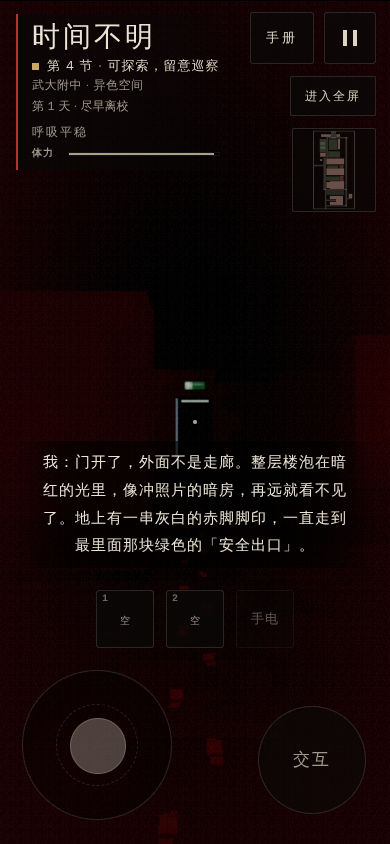
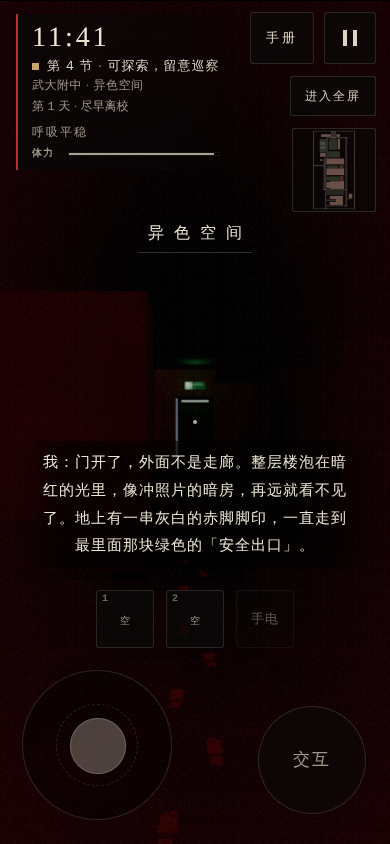
异色空间加人影：站在光前面的黑影、面壁的一个、跟出电梯的一个
用户确认第三版「还可以」，要求加一些人影。只吓人、不伤人，规矩和远处人影（traces.js 的 APPAR）一致：
- fx/dream-figures.js：四个站在一小片光前面的黑影（北墙、南墙亮着的安全灯前，出口旁绿光里一个高的，
  三个在你没看着时转过来朝着你；电梯口附近安全灯底下一个面朝墙）；跟出来的那一个——离电梯口 6 米以上、
  背对着它时身后先响脚步声，1.2 秒后站到半开的电梯门前
- 走近、手电照、盯着看一会儿就消失；无碰撞、不扣 SAN、不致死、不算异象、不进存档，每次进来重摆；
  这个房间不再另出随机的远处人影
- 身后的电梯门改为半开、透出轿厢的冷光（ROOM_LIGHTS.dream 第五盏），人影才衬得出来
- 新增 DreamFiguresTest 3 项；lift_dream 三档穿模 0 条；截图 01、06–09 重拍，新增 10–12
- main.js 里一条放错位置的注释挪回原处
- 文档：恐怖体验计划第 7 节写准入记录，产品对齐文档、传送门计划、计划目录、3D 更新说明、测试说明、截图索引同步

Claude-Session: https://claude.ai/code/session_011CA8sN38sG1RtaArdSjX9J

diff --git a/game3d/js/fx/dream-figures.js b/game3d/js/fx/dream-figures.js
@@ -1,0 +1,89 @@
+/* 里世界 3D · 异色空间里的人影
+   暗房里站着几个黑影——和别处「远处的人影」（traces.js 的 APPAR）同一套模型、同一种黑：
+     · 出口那头亮着的安全灯前一个、南墙亮着的安全灯前一个、出口旁边绿光里一个高出一截的：
+       你没看着它们的时候，它们会转过来朝着你；
+     · 电梯口附近那盏安全灯底下，一个面朝墙站着、头抵过去；
+     · 你离开电梯口走远、背对着电梯口的时候，身后响起几步脚步声——回头看，半开的电梯门透出的冷光里站着一个。
+   都站在一小片光的前面（安全灯照亮的墙、出口的绿光、半开的电梯门里的冷光），黑影才看得出来；摆在全黑的地方等于没有。
+   走近、手电照它、或者盯着看一会儿，它就不在了（和远处人影同一套规矩）。
+   只是吓人：没有碰撞、不挡路、不扣 SAN、不算异象、不进存档；每次进来重新摆一遍。
+   这个房间里不再另出随机的远处人影（traces.js），免得叠在一起。 */
+'use strict';
+
+var DREAM_FIG_CFG={
+  near:{person:4.2, tall:6.0},     /* 走到多近（米）就不见 */
+  stare:1.3,                       /* 盯着看多久（秒）就不见 */
+  followAway:6.0,                  /* 离电梯口多远（米）以后，身后那一个才会来 */
+  followDelay:1.2                  /* 脚步声响过之后多久它站好（秒） */
+};
+/* c、r 是格子坐标（格子 n 的中心是 n+0.5）；都站在空地上，离墙、柱子至少半米。
+   rot 只用 0（朝南，+z）或 π（朝北，−z）；lean 是往前倾 */
+var DREAM_FIGS=[
+  {id:'north',  c:13.6,  r:2.4,   kind:'person', turn:true},                                  /* 出口那头，北墙亮着的安全灯前（从半路看过去正好挡在亮墙前） */
+  {id:'south',  c:8.6,   r:9.6,   kind:'person', turn:true},                                  /* 南墙亮着的安全灯前（从电梯口看过去正好挡在亮墙前） */
+  {id:'tall',   c:16.35, r:7.6,   kind:'tall',   turn:true},                                  /* 出口旁边，绿光照着的墙前，高出一截 */
+  {id:'wall',   c:4.45,  r:1.55,  kind:'person', turn:false, rot:Math.PI, lean:0.10, near:2.6, stare:2.6}   /* 电梯口附近的安全灯底下，面朝北墙，头抵过去 */
+];
+var DREAM_FOLLOW={id:'follow', c:1.6, r:5.5, kind:'person', turn:true, near:4.0, stare:1.0};    /* 电梯门前：你出来的地方 */
+var DFIG={g:null, mat:null, room:null, items:[], follow:null};
+
+function dreamFigWorld(R,d){ return {x:R.ox+d.c*R.tw, y:R.oy+d.r*R.th}; }
+function dreamFigMake(R,d,visible){
+  var grp=new THREE.Group(), w=dreamFigWorld(R,d), p=anfxW2S(w.x,w.y), cp=GLR.cam.position;
+  anfxFigure(grp,DFIG.mat,0,0,1.0,false,d.kind);
+  grp.position.set(p.x,0,p.z);
+  grp.rotation.y=d.rot!==undefined?d.rot:Math.atan2(cp.x-p.x,cp.z-p.z);
+  if(d.lean) grp.rotation.x=d.lean*Math.cos(grp.rotation.y);          /* 朝 +z 时正角往前倾，朝 −z 时反过来 */
+  grp.visible=!!visible; grp.userData.dreamFig=d.id;
+  DFIG.g.add(grp);
+  return {d:d, g:grp, stare:0, gone:false, shown:!!visible, t:0, steps:false};
+}
+/* 每次进来重新摆一遍 */
+function dreamFigReset(R){
+  while(DFIG.g.children.length) DFIG.g.remove(DFIG.g.children[0]);     /* 几何体和材质是共用的，不释放 */
+  DFIG.items=DREAM_FIGS.map(function(d){ return dreamFigMake(R,d,true); });
+  DFIG.follow=dreamFigMake(R,DREAM_FOLLOW,false);
+  DFIG.room=R;
+}
+function dreamFigHalfFov(){
+  var c=GLR.cam; return Math.atan(Math.tan((c.fov||70)*Math.PI/360)*(c.aspect||1.6));
+}
+/* 看着它、离它多近：不见了返回 true */
+function dreamFigWatch(it,dt){
+  var hp=it.g.position, cp=GLR.cam.position, dx=hp.x-cp.x, dz=hp.z-cp.z, dist=Math.hypot(dx,dz);
+  var look=angDiff(Math.atan2(dz,dx),S.ang);
+  if(it.d.turn&&look>dreamFigHalfFov()+0.2) it.g.rotation.y=Math.atan2(cp.x-hp.x,cp.z-hp.z);   /* 没看着它的时候，它转过来朝着你 */
+  if(look<0.12) it.stare+=dt; else it.stare=Math.max(0,it.stare-dt*0.5);
+  var lit=typeof USE!=='undefined'&&USE.torch&&look<0.16&&dist<14;
+  var near=it.d.near||DREAM_FIG_CFG.near[it.d.kind]||4.2, st=it.d.stare||DREAM_FIG_CFG.stare;
+  if(dist<near||lit||it.stare>st){
+    it.g.visible=false; it.gone=true;
+    if(look<0.6){ try{ SFX.vanish(); }catch(e){} }
+    return true;
+  }
+  return false;
+}
+function dreamFigTick(dt){
+  var inDream=S.mode==='in'&&S.room==='lift_dream'&&S.screen==='play'&&!S.dead;
+  if(!inDream){ if(DFIG.g) DFIG.g.visible=false; DFIG.room=null; return; }
+  var R=INTERIORS.lift_dream;
+  if(!DFIG.g){ DFIG.g=new THREE.Group(); DFIG.mat=new THREE.MeshBasicMaterial({color:0x030202,fog:true}); }
+  if(DFIG.g.parent!==GLR.scene) GLR.scene.add(DFIG.g);
+  if(DFIG.room!==R) dreamFigReset(R);
+  DFIG.g.visible=true;
+  if(PAUSE.on||UI.anyOpen()) return;                 /* 暂停、打开界面时：人还在，只是不动 */
+  DFIG.items.forEach(function(it){ if(!it.gone) dreamFigWatch(it,dt); });
+  /* 跟出来的那一个：你走远了、背对着电梯口，身后先响几步脚步声，过一会儿它才站好；你提前回头，这次就先不出来 */
+  var f=DFIG.follow; if(!f||f.gone) return;
+  if(f.shown){ dreamFigWatch(f,dt); return; }
+  var w=dreamFigWorld(R,f.d), p=f.g.position, cp=GLR.cam.position;
+  var dist=Math.hypot(p.x-cp.x,p.z-cp.z), look=angDiff(Math.atan2(p.z-cp.z,p.x-cp.x),S.ang);
+  if(dist>DREAM_FIG_CFG.followAway&&look>dreamFigHalfFov()+0.35){
+    if(!f.steps){ f.steps=true; try{ SFX.dread('steps',dreadPlace(w.x,w.y)); }catch(e){} }
+    f.t+=dt;
+    if(f.t>=DREAM_FIG_CFG.followDelay){
+      f.shown=true; f.g.visible=true; f.stare=0;
+      f.g.rotation.y=Math.atan2(cp.x-p.x,cp.z-p.z);
+    }
+  }else f.t=0;
+}

diff --git a/game3d/js/model/room.js b/game3d/js/model/room.js
@@ -902,6 +902,17 @@ function dreamDecor(c){
     K.rod('metal',x0-dx,2.78,z0-dz,x0-dx,3.0,z0-dz,0.006,0.006,4,0x0c0909,0.9);
     K.rod('metal',x0+dx,2.86,z0+dz,x0+dx,3.0,z0+dz,0.006,0.006,4,0x0c0909,0.9);
   });
+  /* 身后：你出来的那扇电梯门还半开着，里面是轿厢冷白的光（ROOM_LIGHTS.dream 最后一盏照着门前的地）。
+     跟出来的人影就站在这道光前面——全场只有这里亮得能把它整个衬出来。门只是布景：这一面墙照旧是实心的 */
+  var lx=-hw+c.tw, lz=CZ(5), gap=0.62, leaf=(1.04-gap)/2;
+  K.g('emit').box(lx+0.004,1.05,lz,0.004,2.10,gap+0.02,0xc9d6df,1);               /* 门里轿厢的光 */
+  K.g('emit').box(lx+0.006,1.05,lz,0.004,1.80,gap*0.55,0xe4edf2,1);               /* 中间更亮一点 */
+  K.box('metal',lx+0.014,1.06,lz-gap/2-leaf/2,0.024,2.12,leaf,0x1e2124,0.9);     /* 两扇门板 */
+  K.box('metal',lx+0.014,1.06,lz+gap/2+leaf/2,0.024,2.12,leaf,0x1e2124,0.9);
+  K.box('metal',lx+0.02,2.18,lz,0.04,0.12,1.3,0x141618,0.9);                      /* 门头、门套 */
+  K.box('metal',lx+0.02,1.06,lz-0.59,0.04,2.12,0.12,0x141618,0.9);
+  K.box('metal',lx+0.02,1.06,lz+0.59,0.04,2.12,0.12,0x141618,0.9);
+  K.g('emit').box(lx+0.16,0.0135,lz,0.28,0.003,gap,0x8e9ca6,1);                 /* 门口地上那一小块光 */
   /* 倒挂的台阶：发黑的踏步从天花板上一级级长下来 */
   for(i=0;i<5;i++){
     var sy=2.94-i*0.1;

diff --git a/game3d/js/model/specs.js b/game3d/js/model/specs.js
@@ -21,7 +21,8 @@ var ROOM_LIGHTS={
   teach:[[8.5,2.75,7.5,0xffe9c8,1.55,16,'tile'],[24.5,2.75,7.5,0xffe9c8,1.55,16,'tile'],[48.5,2.75,7.5,0xffe9c8,1.55,16,'tile']],
   lab3:[[-16,2.70,-2,0xc8dce8,1.3,18],[-3,2.70,-2,0xc8dce8,1.1,18],[17,2.60,-2.5,0x8a2418,1.6,16],[0,2.6,0.4,0xc07a4a,0.8,14,'room']],
   bell:[[0,2.4,2.5,0xffa860,0.9,12]],trash:[[0,2.6,0,0xb8d0a8,0.7,10]],
-  /* 异色空间：三盏暗房安全灯（暗红，挂在南北墙上），尽头一盏绿灯照着「安全出口」和门——全场唯一不是红的光 */
+  /* 异色空间：三盏暗房安全灯（暗红，挂在南北墙上），尽头一盏绿灯照着「安全出口」和门，身后电梯门缝里一点冷光 */
   dream:[[4.5,2.25,1.9,0xc41a0c,0.6,9,'tile'],[9.5,2.25,10.1,0xc41a0c,0.6,9,'tile'],[14.5,2.25,1.9,0xc41a0c,0.6,9,'tile'],
-         [15.4,2.7,5.5,0x3fe38a,0.2,6,'tile']]
+         [15.4,2.7,5.5,0x3fe38a,0.2,6,'tile'],
+         [1.35,2.0,5.5,0xb9c6d2,0.12,4.5,'tile']]   /* 身后：电梯门缝里漏出轿厢一点冷白的光 */
 };

diff --git a/game3d/js/main.js b/game3d/js/main.js
@@ -81,8 +81,8 @@ function render(dt){
   try{ if(AMB_ON&&S.screen==='play'){ if(!SFX._ambOn){ SFX.ambient(); SFX._ambOn=true; } } else if(!AMB_ON&&SFX._ambOn){ SFX.stopAmbient(); SFX._ambOn=false; } }catch(e){}
   try{ SFX.tick(dt); }catch(e){}
   if(CarChase.active()&&S.screen==='play')CarChase.draw();
-  try{ PortalDevice.tick(dt); }catch(e){}
-  try{ LiftDoors.tick(dt); }catch(e){}             /* 电梯层门：电梯到这一层时滑开 */          /* 物理实验室演示台上的传送门：按剧情状态摆、每帧动 */
+  try{ PortalDevice.tick(dt); }catch(e){}          /* 物理实验室演示台上的传送门：按剧情状态摆、每帧动 */
+  try{ LiftDoors.tick(dt); }catch(e){}             /* 电梯层门：电梯到这一层时滑开 */
   Engine.draw(dt); updateHUD(); drawMini(dt);
   try{ Speedrun.paintHud(); }catch(e){}
 }

diff --git a/game3d/js/fx/traces.js b/game3d/js/fx/traces.js
@@ -127,7 +127,8 @@ function hallucTick(dt){
    只是吓人，不扣 SAN、不算异象；有异象、被巡察者盯着、打开界面时不出现。 */
 var APPAR={g:null,next:40,life:0,stare:0};
 function apparTick(dt){
-  var on=(S.screen==='play'&&!S.dead&&!PAUSE.on&&!AN.active&&!UI.anyOpen()&&!PAT.locked&&!HIDE.on&&!(typeof PHONE!=='undefined'&&PHONE.on));
+  var on=(S.screen==='play'&&!S.dead&&!PAUSE.on&&!AN.active&&!UI.anyOpen()&&!PAT.locked&&!HIDE.on&&!(typeof PHONE!=='undefined'&&PHONE.on)
+    &&!(S.mode==='in'&&S.room==='lift_dream'));                  /* 异色空间里有自己的一组人影（fx/dream-figures.js） */
   if(!APPAR.g){
     APPAR.g=new THREE.Group();
     anfxFigure(APPAR.g,new THREE.MeshBasicMaterial({color:0x030405,fog:true}),0,0,1.0,false,'person');

diff --git a/game3d/js/engine/scene.js b/game3d/js/engine/scene.js
@@ -233,6 +233,7 @@ ThreeBackend.draw=function(dt){
   try{ handsTick(dt); }catch(e){}
   try{ if(!debugFrozen)hallucTick(dt); }catch(e){}
   try{ if(!debugFrozen)apparTick(dt); }catch(e){}
+  try{ if(!debugFrozen)dreamFigTick(dt); }catch(e){}        /* 异色空间里的人影：fx/dream-figures.js */
   GLR.cam.updateMatrixWorld();
   entFace();
   var u=GLR.postMat.uniforms;

diff --git a/index.html b/index.html
@@ -350,6 +350,7 @@
 <script src="game3d/js/fx/cola.js"></script>
 <script src="game3d/js/fx/smile.js"></script>
 <script src="game3d/js/fx/traces.js"></script>
+<script src="game3d/js/fx/dream-figures.js"></script>
 <script src="game3d/js/fx/classroom.js"></script>
 <script src="game3d/js/fx/dread-fx.js"></script>
 <script src="game3d/js/lighting.js"></script>

diff --git a/tests/test_chain_events.py b/tests/test_chain_events.py
@@ -157,3 +157,81 @@ class DreamPaletteTest(BrowserCase):
         page.evaluate("render(0.016)")
         self.assert_js(page, "GLR.postMat.uniforms.uFx.value<0.85&&GLR.postMat.uniforms.uDream.value===0&&GLR.postMat.uniforms.uBreath.value===0")
         self.assert_js(page, "!(GLR.amb.color.r>GLR.amb.color.g*4)")
+
+
+class DreamFiguresTest(BrowserCase):
+    """异色空间里的人影（fx/dream-figures.js）：站在光前面的黑影，没看着时转过来；走近、盯着看就不见；
+    走远、背对电梯口时身后先响脚步声，回头看电梯门里站着一个。只是吓人：没有碰撞、不扣 SAN、每次进来重摆。"""
+
+    def enter(self, page):
+        page.evaluate("Game.start('hard');clearIntroTimers();running=false;S.intro=0;AN.active=false;AN.next=1e6;PAT.next=1e6;")
+        page.wait_for_function("S.room==='teach1'&&GLR.roomMesh")
+        page.evaluate("""doEnterRoom('lift_dream',Elevator.spawn('lift_dream',2,5,0));running=false;
+          window.vanished=0;window.steps=0;SFX.vanish=function(){vanished++;};SFX.dread=function(k){if(k==='steps')steps++;};""")
+        page.wait_for_function("S.room==='lift_dream'&&GLR.roomMesh&&GLR.roomMesh.userData.roomData===INTERIORS.lift_dream")
+        page.evaluate("syncCamera(0);render(0.016)")
+
+    @staticmethod
+    def put(page, c, r, ang):
+        page.evaluate(f"(()=>{{const R=INTERIORS.lift_dream;S.x=R.ox+{c}*R.tw;S.y=R.oy+{r}*R.th;S.ang={ang};S.pitch=0;syncCamera(0);}})()")
+
+    def test_figures_turn_when_unseen_vanish_up_close_or_under_a_stare_and_never_hurt(self):
+        page = self.page()
+        self.enter(page)
+        self.assert_js(page, "DFIG.items.length===4&&DFIG.items.every(i=>i.g.visible&&!i.gone)&&!DFIG.follow.g.visible")
+        self.assert_js(page, "DFIG.items.concat([DFIG.follow]).every(i=>{const w=dreamFigWorld(INTERIORS.lift_dream,i.d);return !solidAt(w.x,w.y);})")
+        self.assert_js(page, "DFIG.mat.isMeshBasicMaterial&&DFIG.mat.color.getHex()<0x101010")
+        san = page.evaluate("S.san")
+        # 背过身去：东边那几个转过来朝着你
+        page.evaluate("S.ang=Math.PI;syncCamera(0);render(0.016)")
+        self.assert_js(page, """(()=>{const it=DFIG.items.find(i=>i.d.id==='north'),p=it.g.position,c=GLR.cam.position;
+            return angDiff(it.g.rotation.y,Math.atan2(c.x-p.x,c.z-p.z))<1e-6;})()""")
+        # 面壁的那个不转
+        self.assert_js(page, "Math.abs(DFIG.items.find(i=>i.d.id==='wall').g.rotation.y-Math.PI)<1e-9")
+        # 盯着看一会儿就不见（高的那个，8 米外）
+        page.evaluate("""(()=>{const R=INTERIORS.lift_dream,t=DFIG.items.find(i=>i.d.id==='tall'),w=dreamFigWorld(R,t.d);
+            S.x=R.ox+8.5*R.tw;S.y=R.oy+5.5*R.th;S.ang=Math.atan2(w.y-S.y,w.x-S.x);syncCamera(0);})()""")
+        page.evaluate("render(0.016)")
+        self.assert_js(page, "!DFIG.items.find(i=>i.d.id==='tall').gone")
+        for _ in range(4):
+            page.evaluate("render(0.4)")
+        self.assert_js(page, "DFIG.items.find(i=>i.d.id==='tall').gone&&vanished>=1")
+        # 走近也不见
+        self.assert_js(page, "!DFIG.items.find(i=>i.d.id==='north').gone")
+        self.put(page, 13.0, 3.2, 0)
+        page.evaluate("render(0.016)")
+        self.assert_js(page, "DFIG.items.find(i=>i.d.id==='north').gone")
+        self.assertEqual(page.evaluate("S.san"), san)
+
+    def test_the_one_that_follows_you_out_of_the_elevator(self):
+        page = self.page()
+        self.enter(page)
+        self.put(page, 5.0, 5.5, 0.0)           # 离电梯口不到 6 米：不来
+        for _ in range(4):
+            page.evaluate("render(0.5)")
+        self.assert_js(page, "!DFIG.follow.shown&&steps===0")
+        self.put(page, 9.6, 5.5, 0.0)           # 走远了、背对电梯口：先响脚步声，过一会儿它才站好
+        page.evaluate("render(0.5)")
+        self.assert_js(page, "steps===1&&!DFIG.follow.shown")
+        for _ in range(3):
+            page.evaluate("render(0.5)")
+        self.assert_js(page, "DFIG.follow.shown&&DFIG.follow.g.visible&&steps===1")
+        self.put(page, 9.6, 5.5, 3.14159)       # 回头：它站在半开的电梯门前；盯着看一秒就不见了
+        page.evaluate("render(0.016)")
+        self.assert_js(page, "DFIG.follow.g.visible&&!DFIG.follow.gone")
+        for _ in range(3):
+            page.evaluate("render(0.5)")
+        self.assert_js(page, "DFIG.follow.gone&&!DFIG.follow.g.visible")
+
+    def test_figures_reset_each_visit_hide_outside_and_replace_the_random_apparition(self):
+        page = self.page()
+        self.enter(page)
+        self.put(page, 13.0, 3.2, 0)
+        page.evaluate("render(0.016)")
+        self.assert_js(page, "DFIG.items.find(i=>i.d.id==='north').gone")
+        page.evaluate("APPAR.next=0;apparTick(0.016)")               # 这里不另出随机的远处人影
+        self.assert_js(page, "!APPAR.g||!APPAR.g.visible")
+        page.evaluate("doEnterRoom('lab1',Elevator.landing('lab',1));running=false;syncCamera(0);render(0.016)")
+        self.assert_js(page, "!DFIG.g.visible&&DFIG.room===null")
+        page.evaluate("doEnterRoom('lift_dream',Elevator.spawn('lift_dream',2,5,0));running=false;syncCamera(0);render(0.016)")
+        self.assert_js(page, "DFIG.g.visible&&DFIG.items.every(i=>!i.gone&&i.g.visible)&&!DFIG.follow.shown")

diff --git a/docs/plan/README.md b/docs/plan/README.md
@@ -4,10 +4,10 @@
 
 | 计划 | 状态 | 说明 |
 | --- | --- | --- |
-| [传送门建模、死亡CG档案室与速通模式](传送门建模、死亡CG档案室与速通模式.md) | 部分完成 | 第 6.7 节 20 分钟自然日此前已部署。2026-11-01 实现 P0 传送门实体模型（实验室常驻装置与结局演出共用）、P1 死亡档案室（18 种死因、可信解锁、隔离回放）、P2 速通模式（RTA、独立存档槽、个人最佳）、P3 新局 3D 开场 CG、P4 水杯前摇缩短 / 夜间连锁异象 / 校庆与占课 / 异色空间，均有自动化与截图（第 9 节）；异色空间已按用户反馈改了三版，第三版按恐怖感做成暗房红灯加门缝漏光的出口，观感待用户确认；真人试玩、安卓真机、听感与真实 GPU 性能验收未做。 |
+| [传送门建模、死亡CG档案室与速通模式](传送门建模、死亡CG档案室与速通模式.md) | 部分完成 | 第 6.7 节 20 分钟自然日此前已部署。2026-11-01 实现 P0 传送门实体模型（实验室常驻装置与结局演出共用）、P1 死亡档案室（18 种死因、可信解锁、隔离回放）、P2 速通模式（RTA、独立存档槽、个人最佳）、P3 新局 3D 开场 CG、P4 水杯前摇缩短 / 夜间连锁异象 / 校庆与占课 / 异色空间，均有自动化与截图（第 9 节）；异色空间已按用户反馈改了三版，第三版按恐怖感做成暗房红灯加门缝漏光的出口（用户确认可以），并加了只吓人不伤人的人影；真人试玩、安卓真机、听感与真实 GPU 性能验收未做。 |
 | [天赋系统重构](天赋系统重构.md) | 部分完成 | 2026-11-01 完成 M0–M3：`talents.js` 统一定义与能力接口、新局选择 / 随机 / 返回、免疫立即落盘、未知 ID 校验、手册与暂停反馈、规则 2 试验效果（旧存档保持规则 1），`tests/test_talents.py` 9 项；M4 路线自然通关与 M5 真人 / 真机验收未做（第 12 节）。 |
 | [可玩性与整体体验提升](可玩性与整体体验提升.md) | 代码已实现，待真人／真机验收 | [PR #20](https://github.com/chorusfruit-233/wdfz/pull/20) 集中交付 G1–G9 的实现、回归与记录工具：首局调查、具体笔记与路线选择、图纸挑战、补给取舍、失败归因、楼层草图、操作设置及叙事回应。第二轮（17.6 节）做了审查修复、全部新界面与场景文字牌按游戏界面风格重做、Alt 放出鼠标。真人盲玩、正常收集通关、自然跨日、实体设备、听感和重玩价值保持待验收，证据见正文第 17 节。 |
-| [恐怖体验深化与验证](恐怖体验深化与验证.md) | 部分完成 | P0–P2 与第 6 节自动化已完成：威胁矩阵与事件优先级表、巡察者卡住放弃 / 跟丢回头找 / 记得躲过的柜子、声音先行与有方位的假威胁、惊吓预算、骤静与前兆、回访变化、五分钟切片，导演系统评估后暂不做；安卓真机与真人试玩记录未做。 |
+| [恐怖体验深化与验证](恐怖体验深化与验证.md) | 部分完成 | P0–P2 与第 6 节自动化已完成：威胁矩阵与事件优先级表、巡察者卡住放弃 / 跟丢回头找 / 记得躲过的柜子、声音先行与有方位的假威胁、惊吓预算、骤静与前兆、回访变化、五分钟切片，导演系统评估后暂不做；安卓真机与真人试玩记录未做。2026-11-02 异色空间加人影（假威胁，准入记录在第 7 节）。 |
 | [校园事件、电梯与逃脱流程重做](校园事件、电梯与逃脱流程重做.md) | 部分完成 | M0–M6 完成：第 15 节列出「待设计」参数的实施取值（未经用户逐项确认，集中在配置里可调）和对应测试；M7 的真实设备与真人试玩（数值平衡、驾驶手感、白色空间可玩性）未做。 |
 | [全死亡方式与结局CG重制、隐藏触发时刻校准](全死亡方式与结局CG重制、隐藏触发时刻校准.md) | 部分完成 | M0–M5 完成：28 种可触发死法全部按死因重做并可安全跳过，四条结局分镜重做、垃圾桶改为死亡演出，隐藏时刻精确到秒且不外泄，绘制次数与着色器预热优化；已完成独立代码审查及修复，M6 仍差安卓真机与实机试听。 |
 | [SAN、校园压力与时间体验重做](SAN、校园压力与时间体验重做.md) | 部分完成 | Q1–Q7 与 20 分钟自然日已实现；追加「尽量当天逃离、第二天起高危」的连续升压、恢复衰减、状态提示和存档兼容。已有整日规则推演、策略模拟及新增专项回归；新曲线的真人首次通关率、自然长局、真实设备与音乐听感仍待验证。 |

diff --git a/docs/产品对齐文档.md b/docs/产品对齐文档.md
@@ -410,6 +410,7 @@ flowchart TD
 - **电梯厅**：J 格在楼层南侧外墙线上（教学楼第 21 行、实验楼第 19 行）。门头、不锈钢门套与地坎、门楣上的楼层显示和到站灯、墙上的呼梯按钮都贴在墙面上。两扇层门单独建网格：电梯停在本层等人（`ready`），或刚把人送到本层（出轿厢后 2.6 秒，`openT`）时滑开，其余时间关着；从门缝能看到井道里的轿厢。
 - **轿厢**：按 1.6 × 1.5 米的真实尺寸放在 5 × 4 的格子里，碰撞跟着轿厢壁走；轿门、侧壁操纵盘（朝向轿厢里面的圆形按钮、深色拉丝底板）、扶手和后壁。整间约 1000 个三角面、9 次绘制，每层电梯厅只多几百个面。只在高画质建的小零件（螺栓、按钮帽）不进碰撞，五档画质的碰撞完全一致（`test_geometry` 全校逐档比对）。进轿厢时站在正中、面朝轿门；旧存档里站在旧轿厢（5 × 5 米）外围的位置，读档时放回正中。
 - **特殊空间（异色空间）配色**（第三版，2026-11-02，用户反馈「没有恐怖感觉」）：做成一间被放大的暗房——整层只亮暗红的安全灯（南北墙六盏，亮着三盏，`ROOM_LIGHTS.dream`），环境光、天光和身边的补光都是暗红的，十几米外沉进红黑色的雾（密度 0.055）；墙 `0x4a1416`、护墙板更深、顶是黑的，地砖发黑并有几摊干掉的深色水渍，墙上有从顶往下淌的暗痕，头顶挂着掉了一头的灯管和倒着长下来的台阶（都在 2.1 米以上）。一串灰白的赤脚脚印从电梯口走到尽头的门前；全场唯一不是红色的是出口：门上过梁钉着自发光的绿色「安全出口」灯牌，门缝和门底下漏出冷白的光，一盏弱绿灯照着门。后期在这里保留红色的饱和度，另加红黑暗角、颗粒和约 5 秒一次的缓慢明暗「呼吸」（关掉镜头晃动时不呼吸），不用频闪。到达时的独白改为暗房和脚印的描述，点明出口在绿牌子那里。前两版（高饱和分区、深靛紫加渐变）的取舍见文末变更记录与 3D 更新说明。
+- **异色空间里的人影**（2026-11-02，`fx/dream-figures.js`）：和远处人影同一种黑色人形，都站在一小片光前面才看得出来——出口那头北墙亮着的安全灯前一个、南墙亮着的安全灯前一个、出口旁边绿光里一个高出一截的，你没看着它们时会转过来朝着你；电梯口附近的安全灯底下一个面朝墙站着。身后那扇电梯门还半开着、透出轿厢的冷光；你离电梯口 6 米以上、背对着它时，身后先响几步脚步声，约 1.2 秒后电梯门前站着一个。走近（普通 4.2 米、高的 6 米、面壁的 2.6 米）、手电照、或盯着看 1.3 秒（跟出来的那个 1 秒）就不见了。没有碰撞、不扣 SAN、不致死、不算异象、不进存档，每次进来重摆；这个房间里不再另出随机的远处人影。
 - 没有采用 PR #24 的 `env.js`（会覆盖引擎管理的 `scene.environment`）、未启用且有问题的 442 KB 网格包与加载器，以及它回退 main 的 README、文档和录像文件。
 
 | 区域 | 关键内容 | 产品意义 |
@@ -1063,6 +1064,7 @@ flowchart TD
 | 2026-11-01 | 天赋重构 M0–M3（定义源、新局选择、规则 2 试验效果）；传送门实体建模、死亡档案室、速通模式、新局开场 CG；水杯前摇缩短、夜间连锁异象（内部）、校庆 / 占课特殊日、电梯异色空间重绘。 | 分支 `claude/draft-pr-finalization-57socr` 的自动化与截图为准；真人、安卓真机和听感待验收。 |
 | 2026-11-01 | 接手 PR #24：电梯厅与轿厢按真实尺寸重建模、层门开合、隔墙遮挡的交互判定；异色空间改为深靛紫底加渐变点缀；触屏下速通计时移到小地图下方、档案回放的触摸结束不再误点「重看」；合入 main 的留校时间升压（6.11 节重新编号）。 | 同一分支；PR #24 选择性吸收（理由见 7.1、7.2），未在其分支上提交。真人与真机待验收。 |
 | 2026-11-02 | 异色空间第三版：按「没有恐怖感觉」的反馈改成暗房红灯、红黑雾、水渍与脚印，出口改为门缝漏光加绿色「安全出口」灯牌；后期加暗角、颗粒和可关的缓慢呼吸（7.1）。 | 同一分支；观感待用户确认，真机未测。 |
+| 2026-11-02 | 异色空间加人影：站在光前面的黑影、面壁的一个、跟出电梯的一个；身后的电梯门改为半开透光（7.1）。 | 同一分支；只吓人不伤人，真人与真机待验收。 |
 
 ## 可玩性扩展的资源和验证边界
 

diff --git a/docs/plan/传送门建模、死亡CG档案室与速通模式.md b/docs/plan/传送门建模、死亡CG档案室与速通模式.md
@@ -377,6 +377,7 @@
 - 异色空间：`ROOM_THEMES.dream` 改为饱和配色，`dreamDecor` 分区地砖、青绿引导路与箭头、墙面发光边线、悬浮方块、倒挂金色楼梯，出口门发光；`lighting.js` 专用雾与光，后期在该房间不压饱和，离开即恢复；房间名「异色空间」。自动化：`DreamPaletteTest`（高饱和顶点比例与色相分区、后期恢复、出口返回）、`tests/test_elevator.py` 原有三项。
 - 异色空间重新配色（2026-11-01，用户反馈上一版分区配色太丑）：改为深靛紫做底（地面 `0x22267a`、墙 `0x2b2063`、天花 `0x0d0b26`），颜色只放在地砖的钴蓝 → 紫 → 玫红渐变（`DREAM_RAMP`）和跟着渐变的墙面发光腰线上；青绿只留给出口引导路和箭头；悬浮方块棱线取所在位置的渐变色，倒挂台阶改为深紫踏步加琥珀边；雾改深靛紫，后期强度 0.85。`DreamPaletteTest` 仍通过（高饱和顶点占比 > 0.4、色相分区 ≥ 4）。截图：`pictures/特殊日、连锁异象与异色空间/01-异色空间-深靛紫底与渐变.png`、`06-…`。是否顺眼仍需用户确认。
 - 异色空间第三版（2026-11-02，用户反馈「没有恐怖感觉」）：按《恐怖设计原则》第 3 节「灯光逻辑一致、不靠全屏压黑」重做——光只来自墙上的暗房安全灯（`ROOM_LIGHTS.dream`，三亮三坏）和照门的一盏弱绿灯，环境光 / 天光 / 补光改为暗红，雾 `0.055` 红黑；`dreamDecor` 改为发黑的地砖、干掉的水渍、墙上往下淌的暗痕、掉了一头的灯管、倒挂台阶，以及一串从电梯口走到尽头的赤脚脚印（引导路线）；出口（`FURN.J`）改为暗门加门缝 / 门底漏光，过梁上钉自发光「安全出口」灯牌；后期 `uDream` 加红黑暗角、颗粒和约 5 秒的明暗呼吸（关镜头晃动时不呼吸，无频闪）；到达独白改写。要制造的恐惧：「熟悉的东西放错了地方」的不安和「有人先走过」；玩家掌握的信息：独白点明绿牌是出口，脚印指向它；行动不变（走到门前交互），没有新的失败方式；低画质只少分段，三档穿模 0 条。`DreamPaletteTest` 改写为：有颜色的顶点 > 90% 为红色调、平均亮度 < 0.3、出口灯牌自发光、三盏红灯一盏绿灯、红色环境光与红黑雾、`uDream` 开 / 离开后关、关镜头晃动不呼吸、出口照旧能走。截图：`pictures/特殊日、连锁异象与异色空间/01、06、07、08、09`（09 为手机竖屏的可读性）。观感待用户确认。
+- 异色空间人影（2026-11-02，用户确认第三版「还可以」并要求加人影）：`fx/dream-figures.js`，复用远处人影的模型与消失规则；四个站在光前面的黑影（三个没被看着时转向你、一个面壁）加一个跟出电梯的（身后先响脚步声，回头看它站在半开的电梯门前），走近 / 手电照 / 盯着看就消失；无碰撞、不扣 SAN、不进存档，每次进来重摆；电梯门改为半开透冷光（ROOM_LIGHTS.dream 第五盏）。准入记录见《恐怖体验深化与验证》第 7 节。测试 `DreamFiguresTest` 3 项；截图 10–12。
 - 未做：短前摇的真人反应与触屏延迟实测、连锁异象听感、特殊日概率的长局体验、异色空间的色觉差异检查与安卓低画质性能。
 
 ### 9.6 验证

diff --git a/pictures/README.md b/pictures/README.md
@@ -58,7 +58,7 @@
 2026-11-01 新计划（天赋重构、传送门建模、死亡档案室、速通模式、开场 CG、特殊日）：本地无头 Chromium 软件 WebGL，1280×720（手机竖屏 390×844 触屏仿真），固定场景截图，不代表真机画质或性能。
 
 - [天赋选择](天赋选择/)：选完难度后的天赋选择（六张卡片的作用、限制、标签，「守时」选中态）；手机竖屏。
-- [特殊日、连锁异象与异色空间](特殊日、连锁异象与异色空间/)：电梯异常维度「异色空间」第三版（按恐怖感重做：整层暗房红灯、红黑色的雾，地上的水渍和一串赤脚脚印走向尽头，门缝漏光的出口和绿色「安全出口」灯牌；01 刚出电梯、06 出口、07 半路的安全灯与掉下来的灯管、08 真实档的红绿辉光、09 手机竖屏 390×844 下字幕和按键仍看得清）；水杯之后的夜间连锁异象（预警时跟着脚下的圈、下坠与落点、落地）；校庆日的教学楼横幅与广播。连锁异象属内部内容，不进 Wiki。
+- [特殊日、连锁异象与异色空间](特殊日、连锁异象与异色空间/)：电梯异常维度「异色空间」第三版（按恐怖感重做：整层暗房红灯、红黑色的雾，地上的水渍和一串赤脚脚印走向尽头，门缝漏光的出口和绿色「安全出口」灯牌；01 刚出电梯、06 出口、07 半路的安全灯、脚印和两个人影、08 真实档的红绿辉光、09 手机竖屏 390×844 下字幕和按键仍看得清；人影：10 回头看，半开的电梯门里站着一个、11 安全灯底下面朝墙站着的一个、12 亮墙前和出口旁的两个）；水杯之后的夜间连锁异象（预警时跟着脚下的圈、下坠与落点、落地）；校庆日的教学楼横幅与广播。连锁异象属内部内容，不进 Wiki。
 - [死亡档案室与速通模式](死亡档案室与速通模式/)：主菜单两个新入口、档案室（已解锁与封存）、档案回放（窗台上的杯子）、速通难度与个人最佳、游戏内计时、结局成绩卡；手机竖屏菜单与档案室；手机竖屏速通计时贴在小地图下方，不压右上角按键（09，触屏修复）；合入留校升压后，横屏 844×390 与竖屏 390×844 下状态卡（多了「第 2 天 · 高危」一行和「校庆日」标记）、小地图、速通计时、手电与交互键互不遮挡（10、11）。
 - [开场CG](开场CG/)：新局开场六段分镜——正常的第四节、老师念到一半、粉笔灰停在半空、颜色褪去、第一人称醒来、交接前的开局视角（精细档）。
 - [传送门重建模](传送门重建模/)：物理实验室演示台上的装置——未组装的基座、图纸齐了卡槽亮灯、门已打开、斜侧近看；《门》结局演出三帧（充能与导轨闭合、门内撑开、走进去）；流畅档的门。
